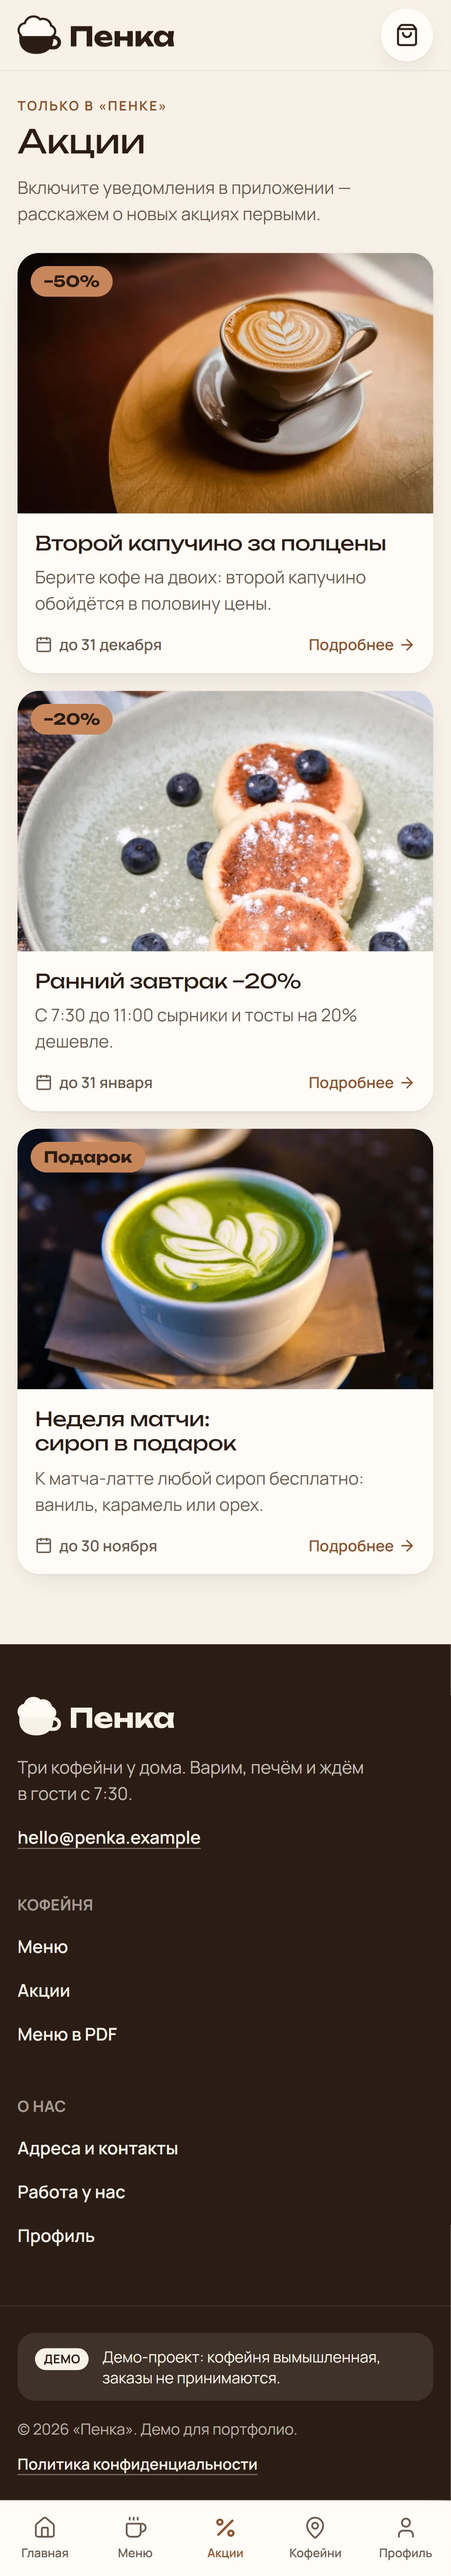
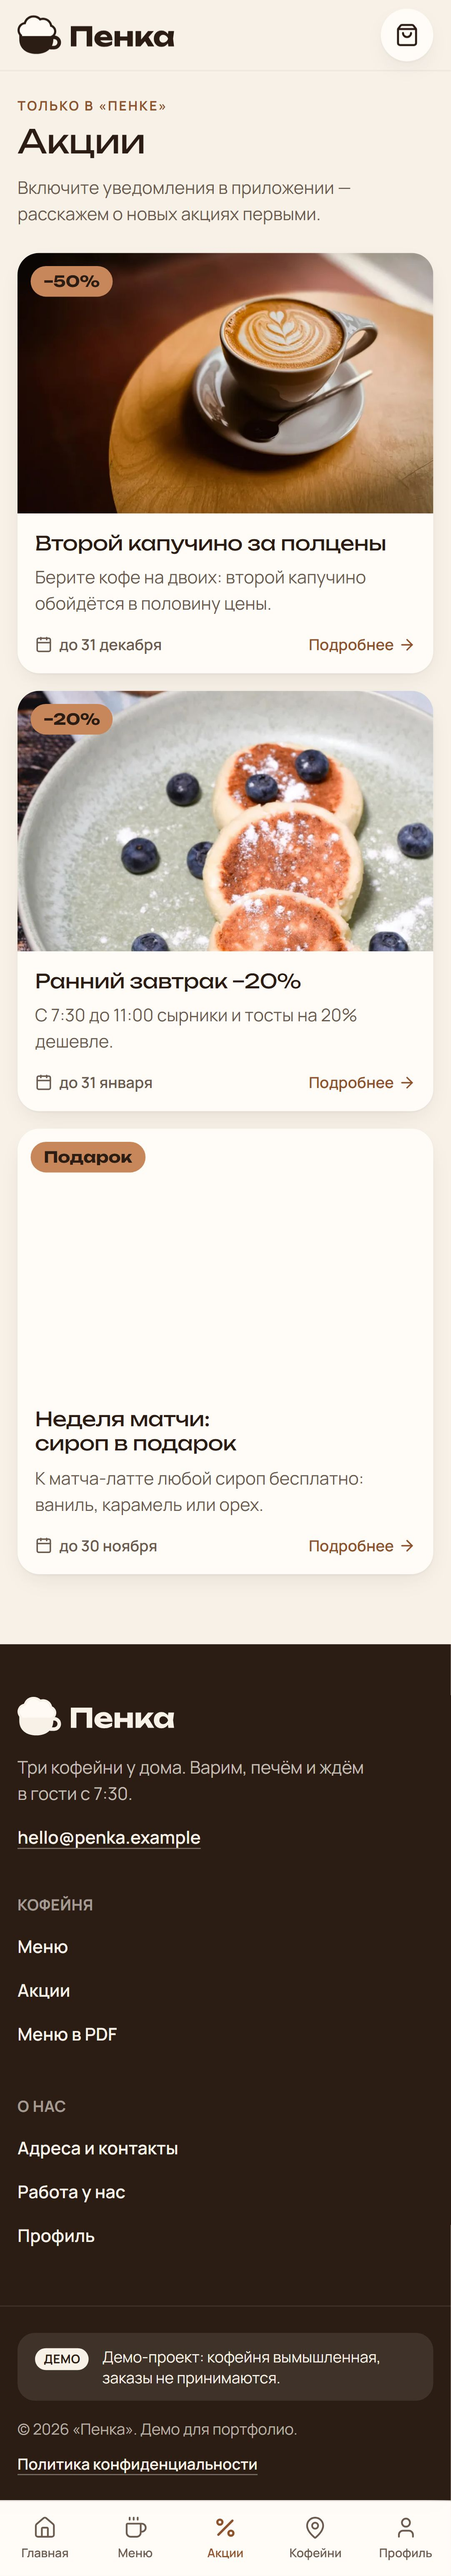
Phase 6: GitHub Pages deploy, app-config.json and README
- .github/workflows/deploy.yml: withastro/action@v6 → actions/deploy-pages@v5
  on push to main (action versions checked against repo tags)
- .github/workflows/ci.yml: Playwright tests with screenshots artifact
- /app-config.json: tabs, cart badge contract, promo URLs for pushes,
  feature pages, session cookie and external URL prefixes, built from src/data
- README: setup, editing menu/promos/photos, app URL list and WebView
  contract, deploy and custom domain, photo credits; docs/preview.jpg

Changed region(s): [[0.0305, 0.4374, 0.976, 0.5624]]

diff --git a/src/pages/app-config.json.ts b/src/pages/app-config.json.ts
@@ -1,0 +1,48 @@
+// /app-config.json — everything the WebView app needs, generated from src/data at build time:
+// tab URLs, promo pages for push notifications, bridge contract. Absolute URLs follow site.config.mjs.
+import type { APIRoute } from 'astro';
+import { promos } from '../data/promos';
+import { SESSION_COOKIE, SESSION_MAX_AGE } from '../lib/session';
+import { absoluteUrl } from '../lib/url';
+
+export const GET: APIRoute = ({ site }) => {
+  const abs = (path: string): string => absoluteUrl(path, site);
+  const config = {
+    version: 1,
+    site: abs(''),
+    userAgentToken: 'PenkaApp',
+    tabs: [
+      { id: 'home', title: 'Главная', icon: 'house', url: abs('') },
+      { id: 'menu', title: 'Меню', icon: 'coffee', url: abs('menu') },
+      { id: 'promo', title: 'Акции', icon: 'percent', url: abs('promo') },
+      { id: 'contacts', title: 'Кофейни', icon: 'map-pin', url: abs('contacts') },
+      { id: 'account', title: 'Профиль', icon: 'user', url: abs('account') },
+    ],
+    cart: {
+      url: abs('cart'),
+      badgeSelector: '.cart-count',
+      message: { type: 'cart', count: 'number' },
+    },
+    promos: promos.map((p) => ({
+      slug: p.slug,
+      title: p.title,
+      body: p.lead,
+      validFrom: p.validFrom,
+      validTo: p.validTo,
+      url: abs(`promo/${p.slug}`),
+    })),
+    pages: {
+      order: abs('order'),
+      orderSuccess: abs('order/success'),
+      jobs: abs('jobs'),
+      privacy: abs('privacy'),
+      menuPdf: abs('files/menu.pdf'),
+    },
+    session: { cookie: SESSION_COOKIE, maxAgeSeconds: SESSION_MAX_AGE },
+    // Links the app should open outside the WebView.
+    externalUrlPrefixes: ['tel:', 'mailto:', 'https://yandex.ru/maps', 'https://t.me/', 'https://wa.me/'],
+  };
+  return new Response(JSON.stringify(config, null, 2), {
+    headers: { 'Content-Type': 'application/json; charset=utf-8' },
+  });
+};

diff --git a/scripts/readme-preview.ts b/scripts/readme-preview.ts
@@ -1,0 +1,47 @@
+// Builds docs/preview.jpg for the README: first screen of four pages side by side.
+// Run after `npm test` (it reads screenshots/*.jpg): npm run preview-image
+import { mkdirSync } from 'node:fs';
+import { dirname, resolve } from 'node:path';
+import { fileURLToPath } from 'node:url';
+import sharp from 'sharp';
+import { COLORS } from './lib/brand.ts';
+
+const root = resolve(dirname(fileURLToPath(import.meta.url)), '..');
+const shots = ['home', 'menu', 'menu-item', 'contacts'];
+const W = 360;
+const H = 760;
+const GAP = 28;
+const PAD = 40;
+const R = 28;
+
+const mask = Buffer.from(`<svg width="${W}" height="${H}"><rect width="${W}" height="${H}" rx="${R}" fill="#fff"/></svg>`);
+
+const tiles = await Promise.all(
+  shots.map(async (name) =>
+    sharp(resolve(root, `screenshots/${name}.jpg`))
+      .resize({ width: W })
+      .extract({ left: 0, top: 0, width: W, height: H })
+      .composite([{ input: mask, blend: 'dest-in' }])
+      .png()
+      .toBuffer(),
+  ),
+);
+
+const width = PAD * 2 + shots.length * W + (shots.length - 1) * GAP;
+const height = PAD * 2 + H;
+const shadow = Buffer.from(
+  `<svg width="${width}" height="${height}">${shots
+    .map((_, i) => `<rect x="${PAD + i * (W + GAP)}" y="${PAD + 10}" width="${W}" height="${H}" rx="${R}" fill="#2B1D14" opacity=".12"/>`)
+    .join('')}</svg>`,
+);
+
+const out = resolve(root, 'docs/preview.jpg');
+mkdirSync(dirname(out), { recursive: true });
+await sharp({ create: { width, height, channels: 3, background: '#EFE3D3' } })
+  .composite([
+    { input: await sharp(shadow).blur(14).png().toBuffer(), left: 0, top: 0 },
+    ...tiles.map((input, i) => ({ input, left: PAD + i * (W + GAP), top: PAD })),
+  ])
+  .jpeg({ quality: 82, mozjpeg: true })
+  .toFile(out);
+console.log('✓ docs/preview.jpg');

diff --git a/tests/smoke.spec.ts b/tests/smoke.spec.ts
@@ -95,3 +95,24 @@ test('manifest is valid', async ({ request }) => {
   expect(manifest.icons.map((i) => i.sizes)).toEqual(expect.arrayContaining(['192x192', '512x512']));
   for (const icon of manifest.icons) expect((await request.get(icon.src)).status()).toBe(200);
 });
+
+test('app-config.json lists working URLs', async ({ request }) => {
+  const res = await request.get('app-config.json');
+  expect(res.status()).toBe(200);
+  const config = (await res.json()) as {
+    site: string;
+    tabs: Array<{ url: string }>;
+    promos: Array<{ url: string }>;
+    pages: Record<string, string>;
+    cart: { url: string };
+  };
+  expect(config.tabs).toHaveLength(5);
+  expect(config.promos.length).toBeGreaterThan(0);
+  const urls = [...config.tabs.map((t) => t.url), ...config.promos.map((p) => p.url), config.cart.url, ...Object.values(config.pages)];
+  for (const url of urls) {
+    expect(url.startsWith(config.site)).toBe(true);
+    // Production URLs → check the same path on the local preview.
+    const path = new URL(url).pathname.replace(new URL(config.site).pathname, '');
+    expect((await request.get(path)).status(), path).toBe(200);
+  }
+});

diff --git a/README.md b/README.md
@@ -1,0 +1,180 @@
+# «Пенка» — демо-сайт кофейни
+
+Сайт вымышленной сети из трёх кофеен. Сделан для портфолио и как основа мобильного приложения:
+приложение открывает его в WebView, поэтому здесь есть всё, что приложение умеет показать —
+вход с сохранением сессии, корзина, форма с загрузкой фото, страницы акций для пушей, звонок,
+карты, мессенджеры и скачивание PDF.
+
+> **Демо-проект:** кофейня вымышленная, заказы не принимаются. Телефоны фиктивные, данные не покидают браузер.
+
+**Сайт:** https://pymeepo.github.io/penka/
+
+![Главная, меню, карточка позиции и контакты на телефоне](docs/preview.jpg)
+
+## Стек
+
+- [Astro 7](https://docs.astro.build) — статическая сборка, TypeScript strict
+- Tailwind CSS 4 через `@tailwindcss/vite`
+- Интерактив — чистый TypeScript в `<script>` компонентов, без React/Vue
+- Шрифты Manrope и Unbounded из `@fontsource`, локально; иконки — inline SVG из lucide
+- Картинки — `<Image>`/`<Picture>` из `astro:assets` (avif/webp)
+- PDF-меню — `pdf-lib`, собирается из тех же данных при каждой сборке
+- Тесты — Playwright, качество — Lighthouse
+- Хостинг — GitHub Pages через GitHub Actions
+
+## Запуск
+
+Нужен Node 22.23.4 или новее (в проекте — 26 LTS, см. `.nvmrc`).
+
+```bash
+npm install
+npm run dev        # http://localhost:4321/penka/
+npm run build      # PDF-меню → astro check → dist/
+npm run preview    # собранный сайт
+npm test           # Playwright (сначала npm run build)
+npm run lighthouse # Lighthouse mobile, отчёты в .lighthouse/
+npm run assets     # логотип, иконки, OG-картинка, заглушки для недостающих фото
+```
+
+Для тестов один раз: `npx playwright install chromium`.
+
+## Как менять меню и акции
+
+Все данные — в `src/data/`. Страницы, PDF-меню и `app-config.json` пересобираются из них сами.
+
+**Позиция меню** — `src/data/menu.ts`, массив `menu`:
+
+```ts
+{
+  slug: 'lavender-raf',           // адрес: /menu/lavender-raf/
+  name: 'Лавандовый раф',
+  description: 'Эспрессо, сливки и лавандовый сироп.',
+  category: 'coffee',             // coffee | not-coffee | bakery | breakfast
+  portion: '250 мл',
+  price: 310,                     // ₽, для напитков — цена размера S
+  image: 'raf',                   // ключ фото, см. ниже
+  tags: ['new'],                  // 'hit' — «Хит», 'new' — «Новинка»; первые 4 хита идут на главную
+  options: { sizes: true, milk: true, syrup: true }, // что выбирается на странице позиции
+},
+```
+
+Доплаты за размер, молоко и сироп — там же: `sizeOptions`, `milkOptions`, `syrupOptions`.
+
+**Акция** — `src/data/promos.ts`. Каждая получает страницу `/promo/<slug>/`:
+
+```ts
+{
+  slug: 'lavender-week',
+  title: 'Неделя лаванды',
+  lead: 'Лавандовый раф со скидкой 20%.',  // эту строку удобно брать в текст пуша
+  badge: '−20%',
+  conditions: ['Скидка 20% на лавандовый раф.', 'Во всех трёх кофейнях.'],
+  validFrom: '2026-12-01',
+  validTo: '2026-12-14',                  // «Осталось N дней» считается в браузере
+  image: 'raf',
+  itemSlug: 'lavender-raf',               // кнопка «Заказать» ведёт на эту позицию
+},
+```
+
+**Кофейни** — `src/data/locations.ts`, **вакансии** — `src/data/jobs.ts`.
+
+**Фото.** Положите JPG в `src/assets/images/` (лучше от 1600 px, напиток в центре кадра),
+добавьте имя файла без расширения в `src/data/images.ts` и укажите его в поле `image`.
+Без фото сборка упадёт с понятной ошибкой; `npm run assets` создаст для недостающих файлов заглушки.
+
+## Адреса страниц для приложения
+
+Всё ниже собирается в **`/app-config.json`** — приложению достаточно скачать его при запуске:
+https://pymeepo.github.io/penka/app-config.json
+
+**Вкладки**
+
+| Вкладка | Адрес |
+|---|---|
+| Главная | `https://pymeepo.github.io/penka/` |
+| Меню | `https://pymeepo.github.io/penka/menu/` |
+| Акции | `https://pymeepo.github.io/penka/promo/` |
+| Кофейни | `https://pymeepo.github.io/penka/contacts/` |
+| Профиль | `https://pymeepo.github.io/penka/account/` |
+| Корзина (кнопка с бейджем) | `https://pymeepo.github.io/penka/cart/` |
+
+**Акции для пушей** — `https://pymeepo.github.io/penka/promo/<slug>/`
+
+| Пуш | Адрес |
+|---|---|
+| Второй капучино за полцены | `https://pymeepo.github.io/penka/promo/second-cappuccino/` |
+| Ранний завтрак −20% | `https://pymeepo.github.io/penka/promo/early-breakfast/` |
+| Неделя матчи: сироп в подарок | `https://pymeepo.github.io/penka/promo/matcha-week/` |
+
+Позиция меню тоже годится как цель пуша: `https://pymeepo.github.io/penka/menu/<slug>/`.
+
+**Другие страницы, показывающие возможности приложения**
+
+| Возможность | Адрес |
+|---|---|
+| Оформление заказа (форма, маска телефона) | `/order/` → `/order/success/?n=<номер>` |
+| Вход по СМС-коду, cookie на 30 дней | `/account/` (подходит любой код из 4 цифр, например 1234) |
+| Загрузка фото/PDF из галереи или камеры | `/jobs/` |
+| Звонок, карты, Telegram, WhatsApp, «Поделиться» | `/contacts/` |
+| Скачивание PDF | `/files/menu.pdf` |
+| Политика конфиденциальности, удаление данных | `/privacy/` |
+
+## Контракт с приложением (WebView)
+
+- **Режим приложения** включается, если в user agent есть `PenkaApp` или у `<html>` есть класс `in-app`.
+  Тогда скрыты шапка, подвал, нижние вкладки и баннер «Скачайте приложение», добавлены отступы
+  `env(safe-area-inset-*)`. В браузере режим можно включить для демо: `?app=1` (выключить — `?app=0`).
+- **Бейдж корзины.** Элемент `.cart-count` всегда есть в DOM, в нём число товаров (и `data-count`).
+- **Сообщения.** Если есть `window.ReactNativeWebView`, при каждом изменении корзины (и при загрузке
+  страницы) сайт отправляет `postMessage(JSON.stringify({ type: 'cart', count }))`.
+- **Сессия** — cookie `penka_session`, `Max-Age=2592000` (30 дней), `Path=/`, `SameSite=Lax`.
+  Чтобы вход пережил перезапуск, WebView должен сохранять cookie (на Android — `CookieManager`, flush).
+- **Внешние ссылки** `tel:`, `mailto:`, `https://yandex.ru/maps`, `https://t.me/`, `https://wa.me/` приложение
+  должно открывать системно — список есть в `app-config.json` → `externalUrlPrefixes`.
+- **Файлы.** `<input type="file" accept="image/*,application/pdf">` на `/jobs/` — WebView должен разрешить
+  выбор файла и камеру. PDF-меню скачивается по ссылке с атрибутом `download`.
+
+## Деплой
+
+1. Создайте на GitHub репозиторий `penka` и отправьте код в ветку `main`.
+2. В репозитории: **Settings → Pages → Build and deployment → Source: GitHub Actions**.
+3. Каждый push в `main` собирает и публикует сайт (`.github/workflows/deploy.yml`).
+   Тесты Playwright гоняются отдельно (`.github/workflows/ci.yml`) и деплой не блокируют.
+
+**Свой домен.** Поменяйте одну строку в `site.config.mjs`:
+
+```js
+export const SITE_URL = 'https://penka.example/';
+```
+
+и добавьте файл `public/CNAME` с доменом. `site` и `base` для Astro, ссылки, манифест, PDF и
+`app-config.json` возьмут адрес оттуда.
+
+## Структура
+
+```
+site.config.mjs        адрес сайта — одна строка
+src/data/              меню, акции, кофейни, вакансии, ключи фото
+src/pages/             страницы; app-config.json.ts, manifest.webmanifest.ts
+src/components/        шапка, подвал, карточки, иконки
+src/lib/               корзина, сессия, заказы, маска телефона, мост к приложению, url()
+src/assets/            фото (оптимизируются при сборке) и логотип
+scripts/               логотип и иконки, заглушки фото, PDF-меню, Lighthouse, превью для README
+brand/                 icon-1024.png и logo-transparent-1024.png для иконки и заставки приложения
+tests/                 Playwright: смоук всех страниц, режим приложения, заказ, вход, маска телефона
+screenshots/           скриншоты из тестов (Pixel 7)
+```
+
+## Качество
+
+Lighthouse, мобильный режим, 10 страниц: Performance 96–100, Accessibility, Best Practices и SEO — 100.
+Playwright (33 теста): все страницы открываются без ошибок в консоли и без горизонтальной прокрутки,
+проверены режим приложения, сообщение в `ReactNativeWebView`, заказ от корзины до успеха и cookie сессии.
+
+## Фото
+
+Фото флэт уайта, американо, рафа с халвой, какао, матча-тоника, миндального круассана, булочки
+с кардамоном, сырников и трёх кофеен — с [Unsplash](https://unsplash.com/license), авторы: Tim Schmidbauer,
+Nathan Dumlao, Kari Shea, Elena Leya, Nguyễn Hiệp, Kimia Kazemi, Scott Gummerson, Valeriya Avdeeva,
+Angela Bailey, Keghan Crossland, Johan Mouchet. Остальные фото добавлены владельцем репозитория.
+Логотип нарисован кодом (`scripts/lib/brand.ts`).

diff --git a/CLAUDE.md b/CLAUDE.md
@@ -26,6 +26,7 @@
 - `npm run build` — PDF-меню (`npm run pdf`) + `astro check` + сборка в `dist/`
 - `npm run pdf` — `public/files/menu.pdf` из `src/data` (pdf-lib, WOFF-шрифты fontsource по подмножествам; не коммитится)
 - `npm run preview` — просмотр сборки
+- `npm run preview-image` — `docs/preview.jpg` для README из `screenshots/` (после `npm test`)
 - `npm run assets` — логотип (SVG/PNG), иконки PWA, OG-картинка, заглушки для недостающих фото (`scripts/`).
   Логотип рисуется кодом в `scripts/lib/brand.ts`; PNG для приложения — в `brand/`.
 - `npm run test` — Playwright (Pixel 7) против собранного сайта (`astro preview` на :4322): смоук всех страниц,
@@ -68,6 +69,12 @@
 - Lighthouse mobile: Performance ≥ 90; Accessibility, Best Practices, SEO ≥ 95.
 - Title, description, Open Graph на каждой странице; PWA-манифест; `meta theme-color`.
 - Playwright: все страницы открываются в мобильном вьюпорте без ошибок в консоли.
+
+### Приложение и деплой
+- `/app-config.json` (`src/pages/app-config.json.ts`) — вкладки, акции для пушей, контракт моста; собирается из `src/data`.
+  При добавлении страниц-возможностей — дописать туда и в README.
+- Деплой: `.github/workflows/deploy.yml` (withastro/action, push в `main`); тесты — `ci.yml`, деплой не блокируют.
+  Версии actions сверять с тегами репозиториев (`git ls-remote --tags`).
 
 ### Подводные камни
 - Дев-сервер Tailwind 4 не всегда подхватывает классы из новых страниц — после добавления страницы
